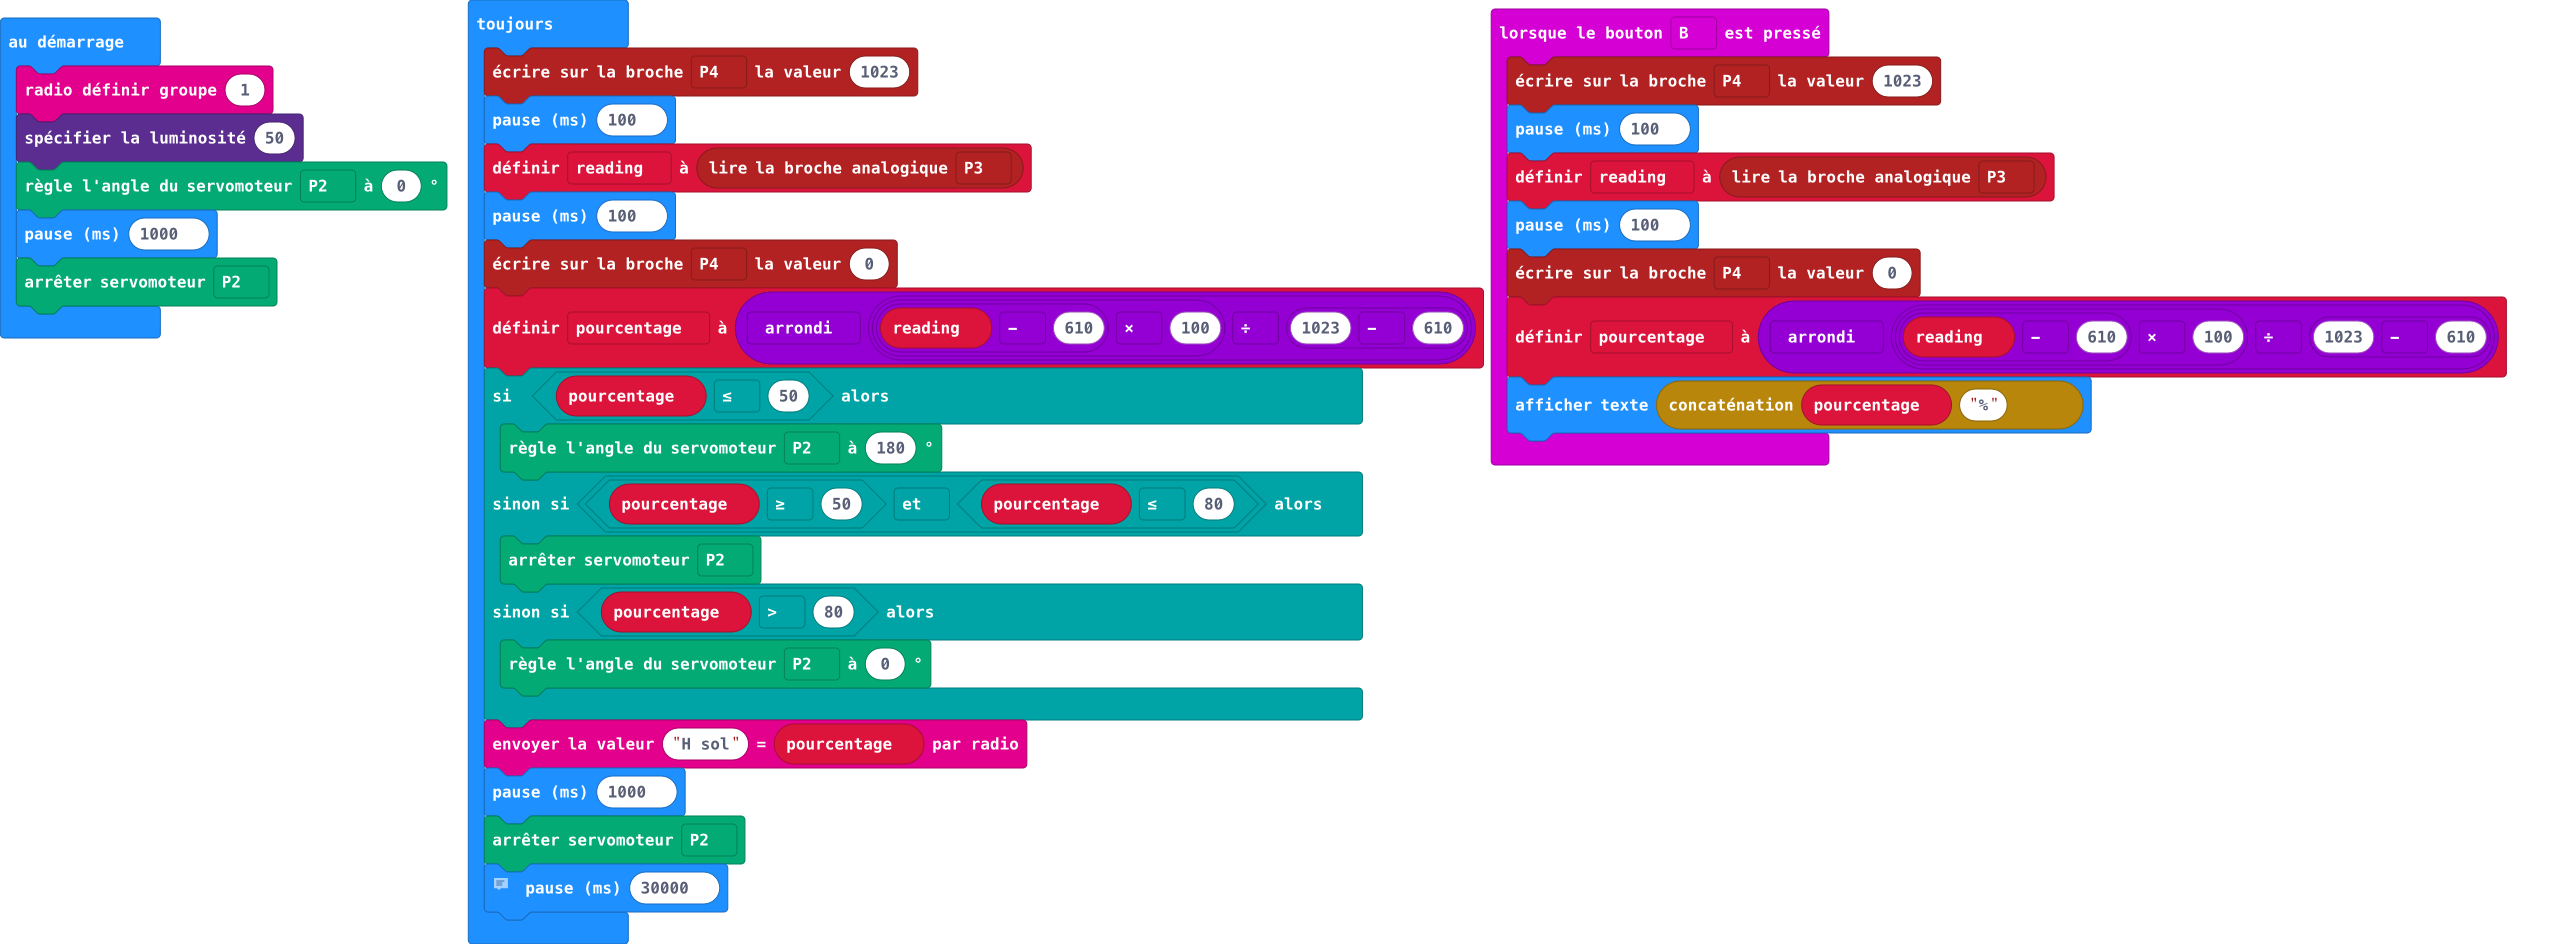
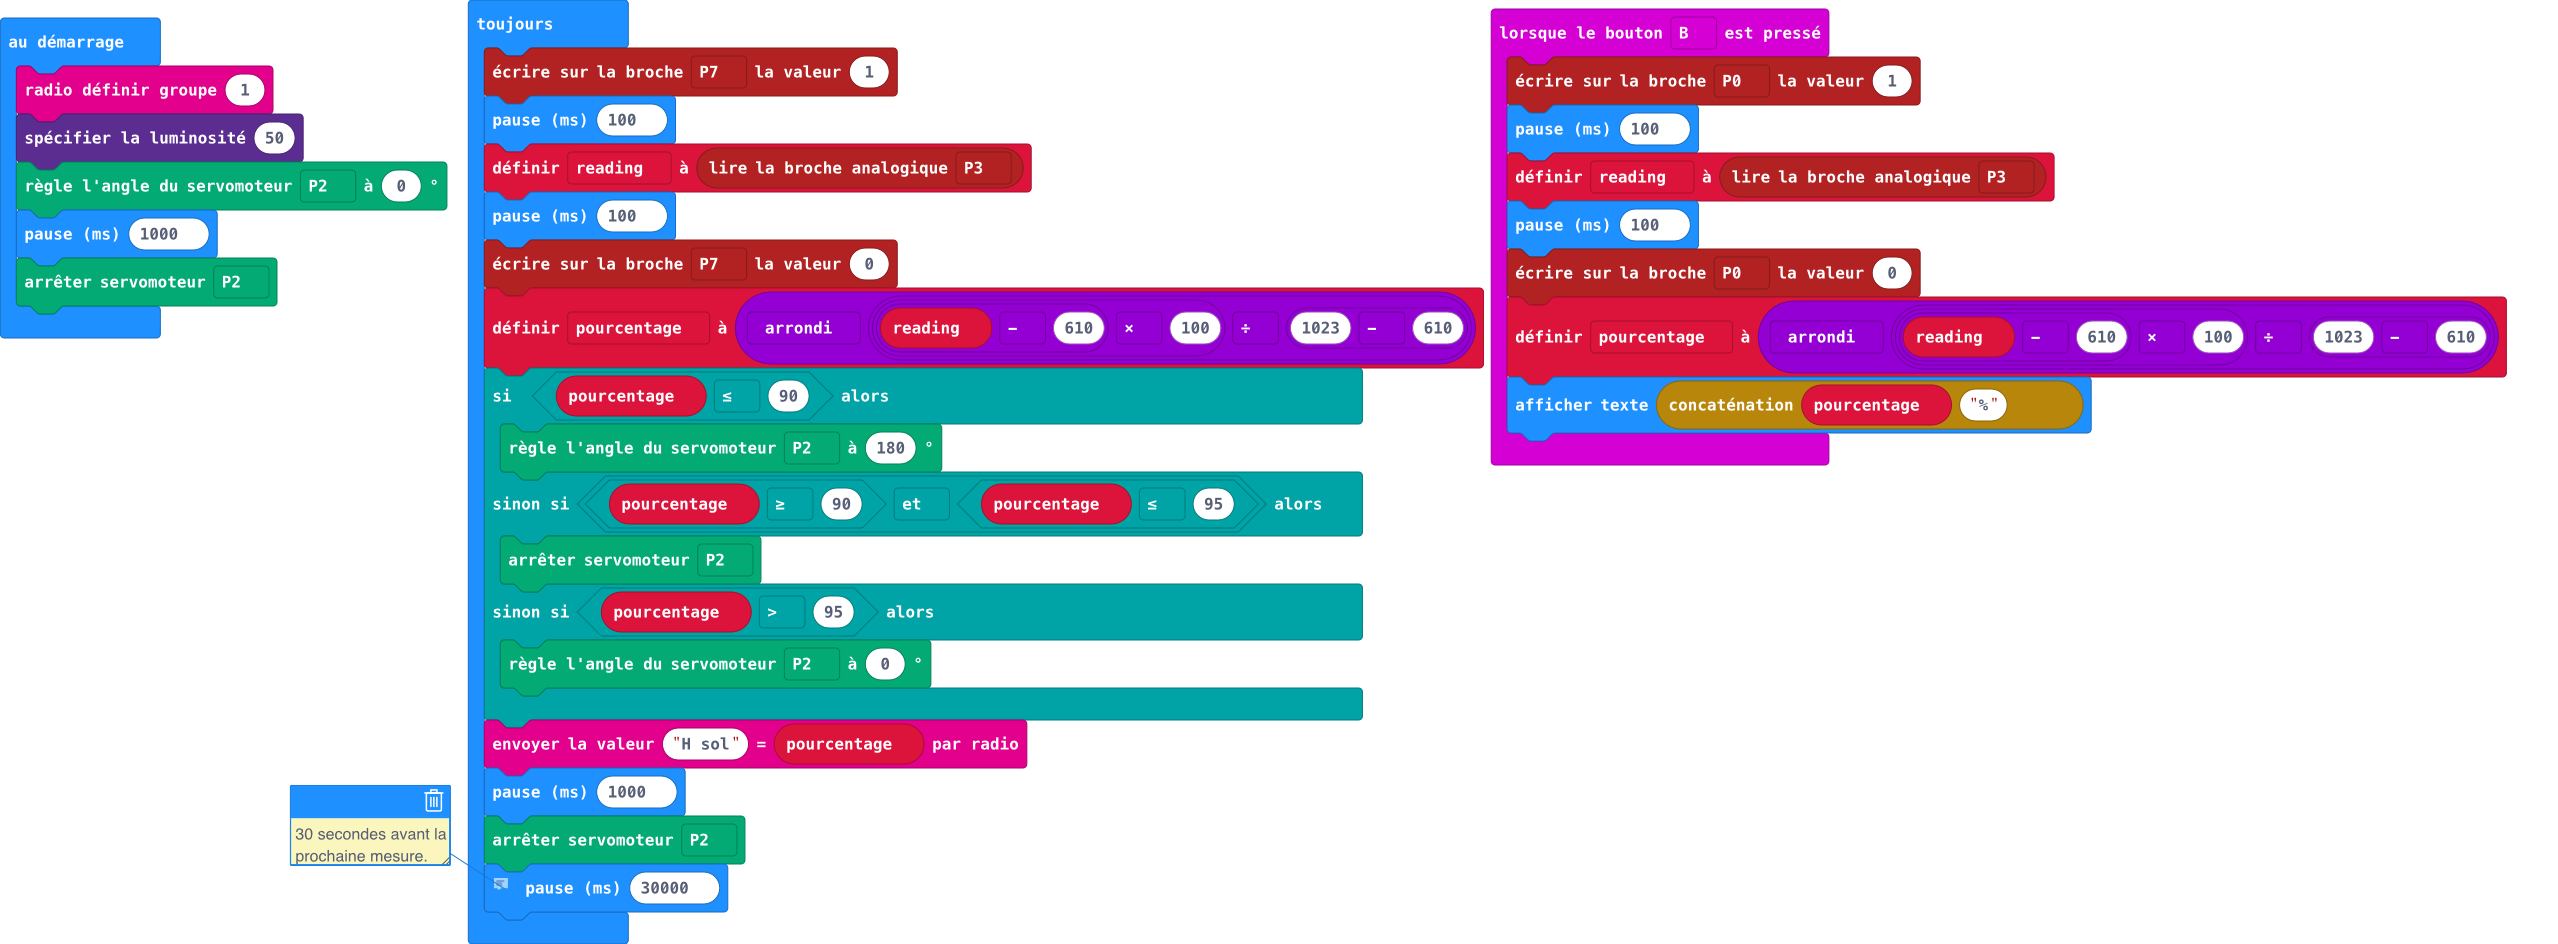
Mise à jour main.ts, main.blocks

Changed region(s): [[0.0927, 0.8294, 0.1853, 0.9216], [0.3397, 0.0307, 0.3706, 0.1229], [0.7412, 0.0614, 0.7721, 0.1229]]

diff --git a/main.ts b/main.ts
@@ -1,9 +1,9 @@
 input.onButtonPressed(Button.B, function () {
-    pins.analogWritePin(AnalogPin.P4, 1023)
+    pins.digitalWritePin(DigitalPin.P0, 1)
     basic.pause(100)
     reading = pins.analogReadPin(AnalogPin.P3)
     basic.pause(100)
-    pins.analogWritePin(AnalogPin.P4, 0)
+    pins.digitalWritePin(DigitalPin.P0, 0)
     pourcentage = Math.round((reading - 610) * 100 / (1023 - 610))
     basic.showString("" + pourcentage + "%")
 })
@@ -15,17 +15,17 @@ servos.P2.setAngle(0)
 basic.pause(1000)
 servos.P2.stop()
 basic.forever(function () {
-    pins.analogWritePin(AnalogPin.P4, 1023)
+    pins.digitalWritePin(DigitalPin.P7, 1)
     basic.pause(100)
     reading = pins.analogReadPin(AnalogPin.P3)
     basic.pause(100)
-    pins.analogWritePin(AnalogPin.P4, 0)
+    pins.digitalWritePin(DigitalPin.P7, 0)
     pourcentage = Math.round((reading - 610) * 100 / (1023 - 610))
-    if (pourcentage <= 50) {
+    if (pourcentage <= 90) {
         servos.P2.setAngle(180)
-    } else if (pourcentage >= 50 && pourcentage <= 80) {
+    } else if (pourcentage >= 90 && pourcentage <= 95) {
         servos.P2.stop()
-    } else if (pourcentage > 80) {
+    } else if (pourcentage > 95) {
         servos.P2.setAngle(0)
     }
     radio.sendValue("H sol", pourcentage)
